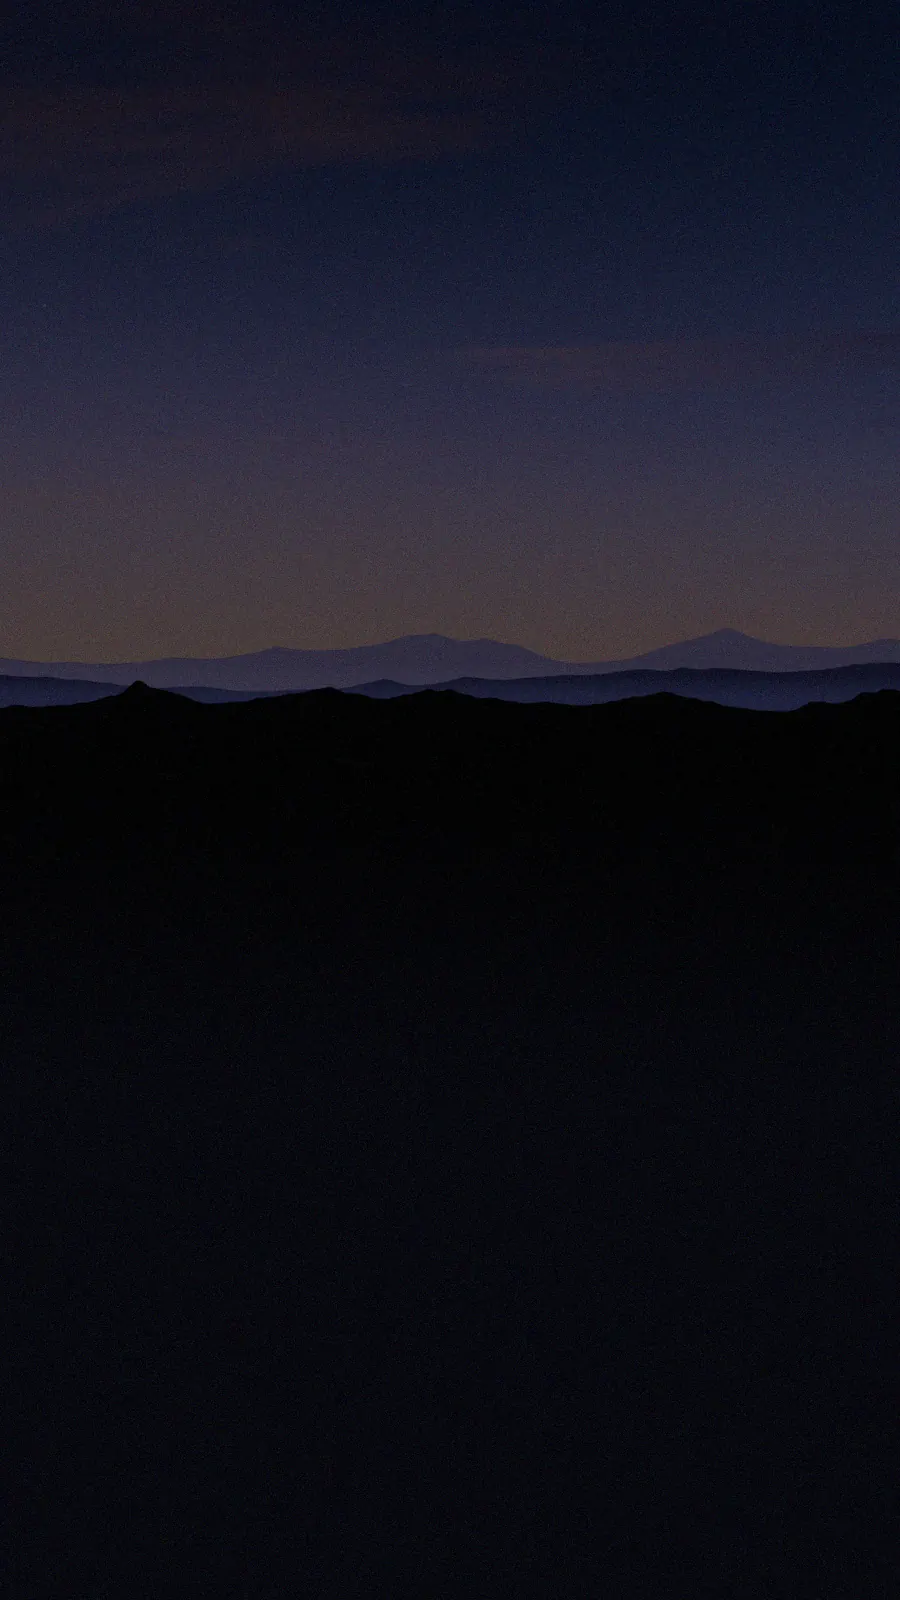
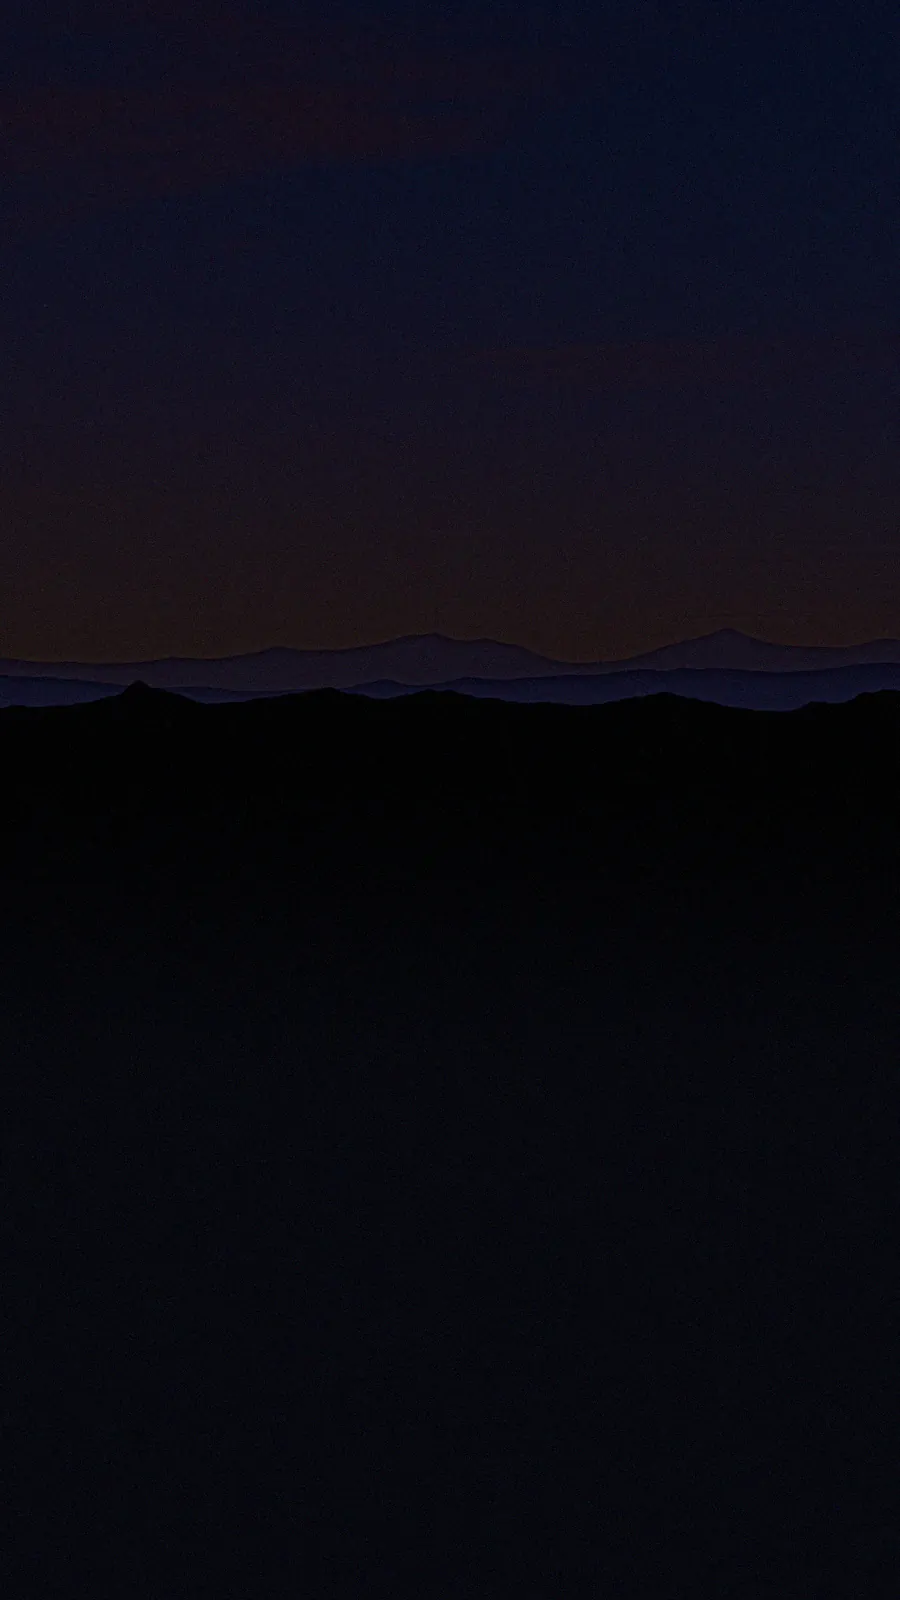
fix(home): fold the sky glow down so text keeps its contrast

Changed region(s): [[0.0, 0.1562, 1.0, 0.4375]]

diff --git a/DESIGN.md b/DESIGN.md
@@ -31,11 +31,13 @@ a thin blue rule under the title. Tokens live in `src/styles/tokens.css`.
 **Home's sky** follows the device's clock in four calm moods, each a picture of the same place: a sky over three
 ridges of hills that fade into the void. Dawn (05:00 to 08:00) is lilac with a rose glow low over the hills, day
 (08:00 to 17:00) lifts the lantern blue with soft cloud, dusk (17:00 to 20:00) is indigo with an amber horizon, and
-night is deep blue with stars, which every other screen keeps. The pictures stay at night-light level: the top is
-darkest, where the small text sits, and no cloud or glow gets bright enough to weaken text over it. Opening or leaving
-Home fades the sky in 0.9 s, a new hour drifts in over 8 s with the old picture held under the new one, and the Safe
-Zone always opens on night at once. The pictures live in `public/sky/` (tall ones for portrait screens, wide ones for
-landscape), the layers in `src/daily/daily.css`, the timings in `src/motion/tokens.ts`.
+night is deep blue with stars, which every other screen keeps. The pictures stay at night-light level, because the
+page scrolls over every part of them: the darker sky keeps its rendered light, the glow is folded down under a
+ceiling, and colour rather than brightness carries each mood, so the faintest text on Home keeps 5.4:1 wherever it
+sits. Opening or leaving Home fades the sky in 0.9 s, a new hour drifts in over 8 s with the old picture held under
+the new one, and the Safe Zone always opens on night at once. The pictures live in `public/sky/` (tall ones for
+portrait screens, wide ones for landscape), the layers in `src/daily/daily.css`, the timings in
+`src/motion/tokens.ts`.
 
 ## Type
 
